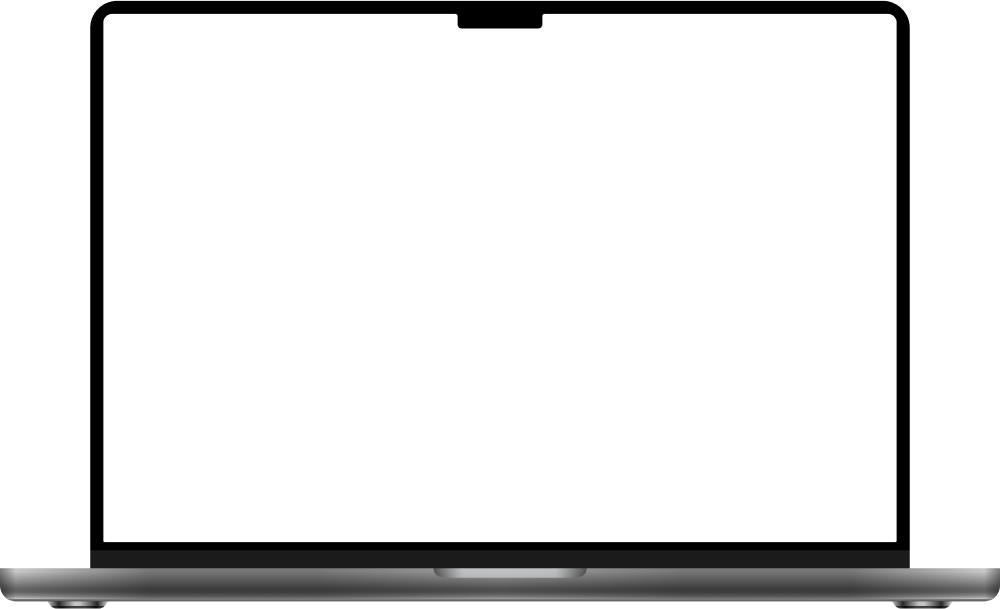
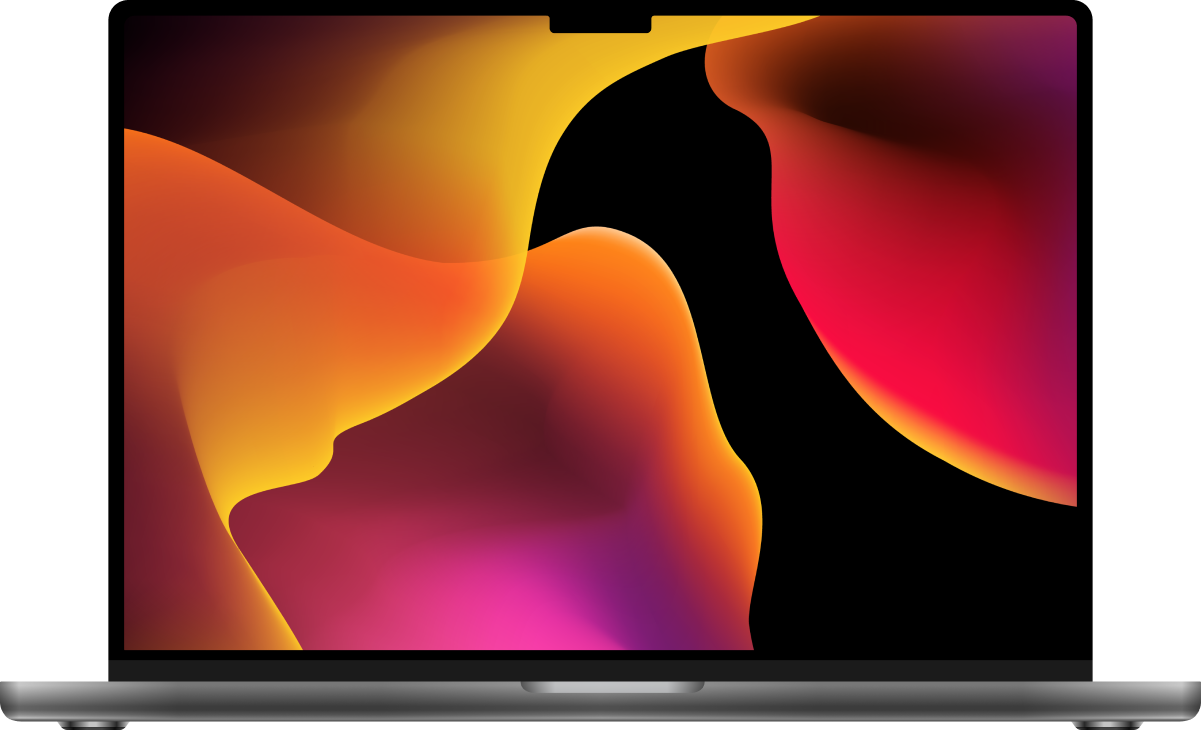
added cloud saver

diff --git a/src/styles/WebsiteContainer.css b/src/styles/WebsiteContainer.css
@@ -1,13 +1,15 @@
+
 .websiteContainer {
- position: relative;
- width: 80%;
- height: 60%;
- background-image: url('../assets/MacbookPro.png');
- background-size: cover;
-background-repeat: no-repeat;
+  position: relative;
+  width: 85%; /* Adjust this to what suits your design */
+  margin: auto; /* Center the container */
+  /* Use padding-top to maintain the aspect ratio for height */
+  padding-top: calc(85% / 1.645);
+  background: url('../assets/MacbookPro.png') no-repeat center center;
+  background-size: contain; /* Make sure the image is scaled properly */
 }
 
-.iframeContainer {
+/* .iframeContainer {
   position: absolute;
   top: 8px; 
   left: 66px; 
@@ -21,4 +23,23 @@ iframe {
   width: 100%;
   height: 100%;
   border: none; 
+} */
+
+.iframeContainer {
+  position: absolute;
+  /* These values depend on the MacBook image's screen position */
+  top: 2.2%;
+  left: 10.3%;
+  width: 79.5%;
+  height: 87%;
+  /* background: white; */
+}
+
+/* The iframe CSS should be adjusted if necessary */
+iframe {
+  border-top-left-radius: 5px;
+  border-top-right-radius: 5px;
+  width: 100%;
+  height: 100%;
+  border: none;
 }

diff --git a/src/components/ProjectContainer.tsx b/src/components/ProjectContainer.tsx
@@ -1,5 +1,7 @@
 import Card from './Card'
 import WebsiteContainer from './WebsiteContainer'
+import '../styles/ProjectContainer.css';
+
 
 type ProjectContainerProps = {  
     link: string;
@@ -8,9 +10,13 @@ type ProjectContainerProps = {
 function ProjectContainer(props: ProjectContainerProps){
     return (
         <div>
-            <div style={{paddingLeft:"1rem"}}>CloudSaver</div>
             <Card>
-                <WebsiteContainer link={props.link}></WebsiteContainer>
+
+            <div style={{fontSize:"",fontFamily:"arial", fontWeight:"", opacity:"0.5"}} >Cloud Saver</div>
+            <div style={{fontSize:"x-large", fontFamily:"arial", fontWeight:""}}>Elevate Your Cloud Economy</div>
+                    <div className='projectContainer'>
+                        <WebsiteContainer link={props.link}></WebsiteContainer>
+                    </div>
             </Card>
         </div>
     )

diff --git a/src/App.tsx b/src/App.tsx
@@ -11,10 +11,18 @@ function App() {
     <div className='container'>
       <Navbar></Navbar>
       <Title></Title>
-      <ProjectContainer 
-        link='https://sv.wikipedia.org/wiki/Portal:Huvudsida'>
-      </ProjectContainer>
-
+      <div className='projectsRow'>
+        <ProjectContainer 
+          // link='https://sv.wikipedia.org/wiki/Portal:Huvudsida'>
+          link='https://mvk-cloudsaver-frontend-gm8ghxv42-marcusokodughas-projects.vercel.app/'>
+        </ProjectContainer>
+        <ProjectContainer 
+          link='https://www.marcusokodugha.com/'>
+        </ProjectContainer>
+        <ProjectContainer 
+          link='https://www.marcusokodugha.com/'>
+        </ProjectContainer>
+      </div>
     </div>
   )
 }

diff --git a/src/styles/ProjectContainer.css b/src/styles/ProjectContainer.css
@@ -1,0 +1,22 @@
+.projectContainer{
+    display: flex;
+    align-items: center;
+    justify-content: center;
+    width: 100%;
+    height: 100%;
+}
+
+.projectsRow {
+    /* background-color: red; */
+    height: fit-content;
+    display: flex;
+    flex-wrap: nowrap; /* Prevent the items from wrapping */
+    /* overflow-x: auto;  */
+    gap: 1rem; /* Space between the project containers */
+    margin: 1rem 0; /* Optional: space above and below the row */
+  }
+  
+  .projectContainer {
+    flex: 0 0 auto; /* Don't grow, don't shrink, base size is auto */
+    /* Your existing styles for individual project containers... */
+  }

diff --git a/src/components/WebsiteContainer.tsx b/src/components/WebsiteContainer.tsx
@@ -6,9 +6,11 @@ type WebsiteContainerProps = {
 
 function WebsiteContainer(props: WebsiteContainerProps){
     return (
+
         <div className='websiteContainer'>
+            {/* put the mac img hear  */}
             <div className='iframeContainer' >
-                <iframe src={props.link} title="description" className="websiteContainer"></iframe>
+                <iframe src={props.link} title="description" className='iframe'></iframe>
             </div>
         </div>
     )

diff --git a/src/components/Title.tsx b/src/components/Title.tsx
@@ -3,7 +3,7 @@ import MarcusFullstackDeveloper from '../assets/MarcusFullstackDeveloper.png';
 function Title() {
     return (
         <>
-            <img src={MarcusFullstackDeveloper} alt="Marcus Fullstack Developer" style={{ width: '30rem', height: 'auto' ,marginBottom:'2rem'}} />
+            <img src={MarcusFullstackDeveloper} alt="Marcus Fullstack Developer" style={{ width: '30rem', height: 'auto' ,marginBottom:'1rem'}} />
         </>
     );
 }   

diff --git a/src/styles/Card.css b/src/styles/Card.css
@@ -1,8 +1,8 @@
 .card{
-    padding: 1.25rem;
+    padding: 2rem;
     border-radius: 20px;
     background-color: var(--card);
     width: 50rem;
-    height: 40rem;
+    height: 35rem;
     box-shadow: 0px 4px 16px rgba(0, 0, 0, 0.06);
 }
